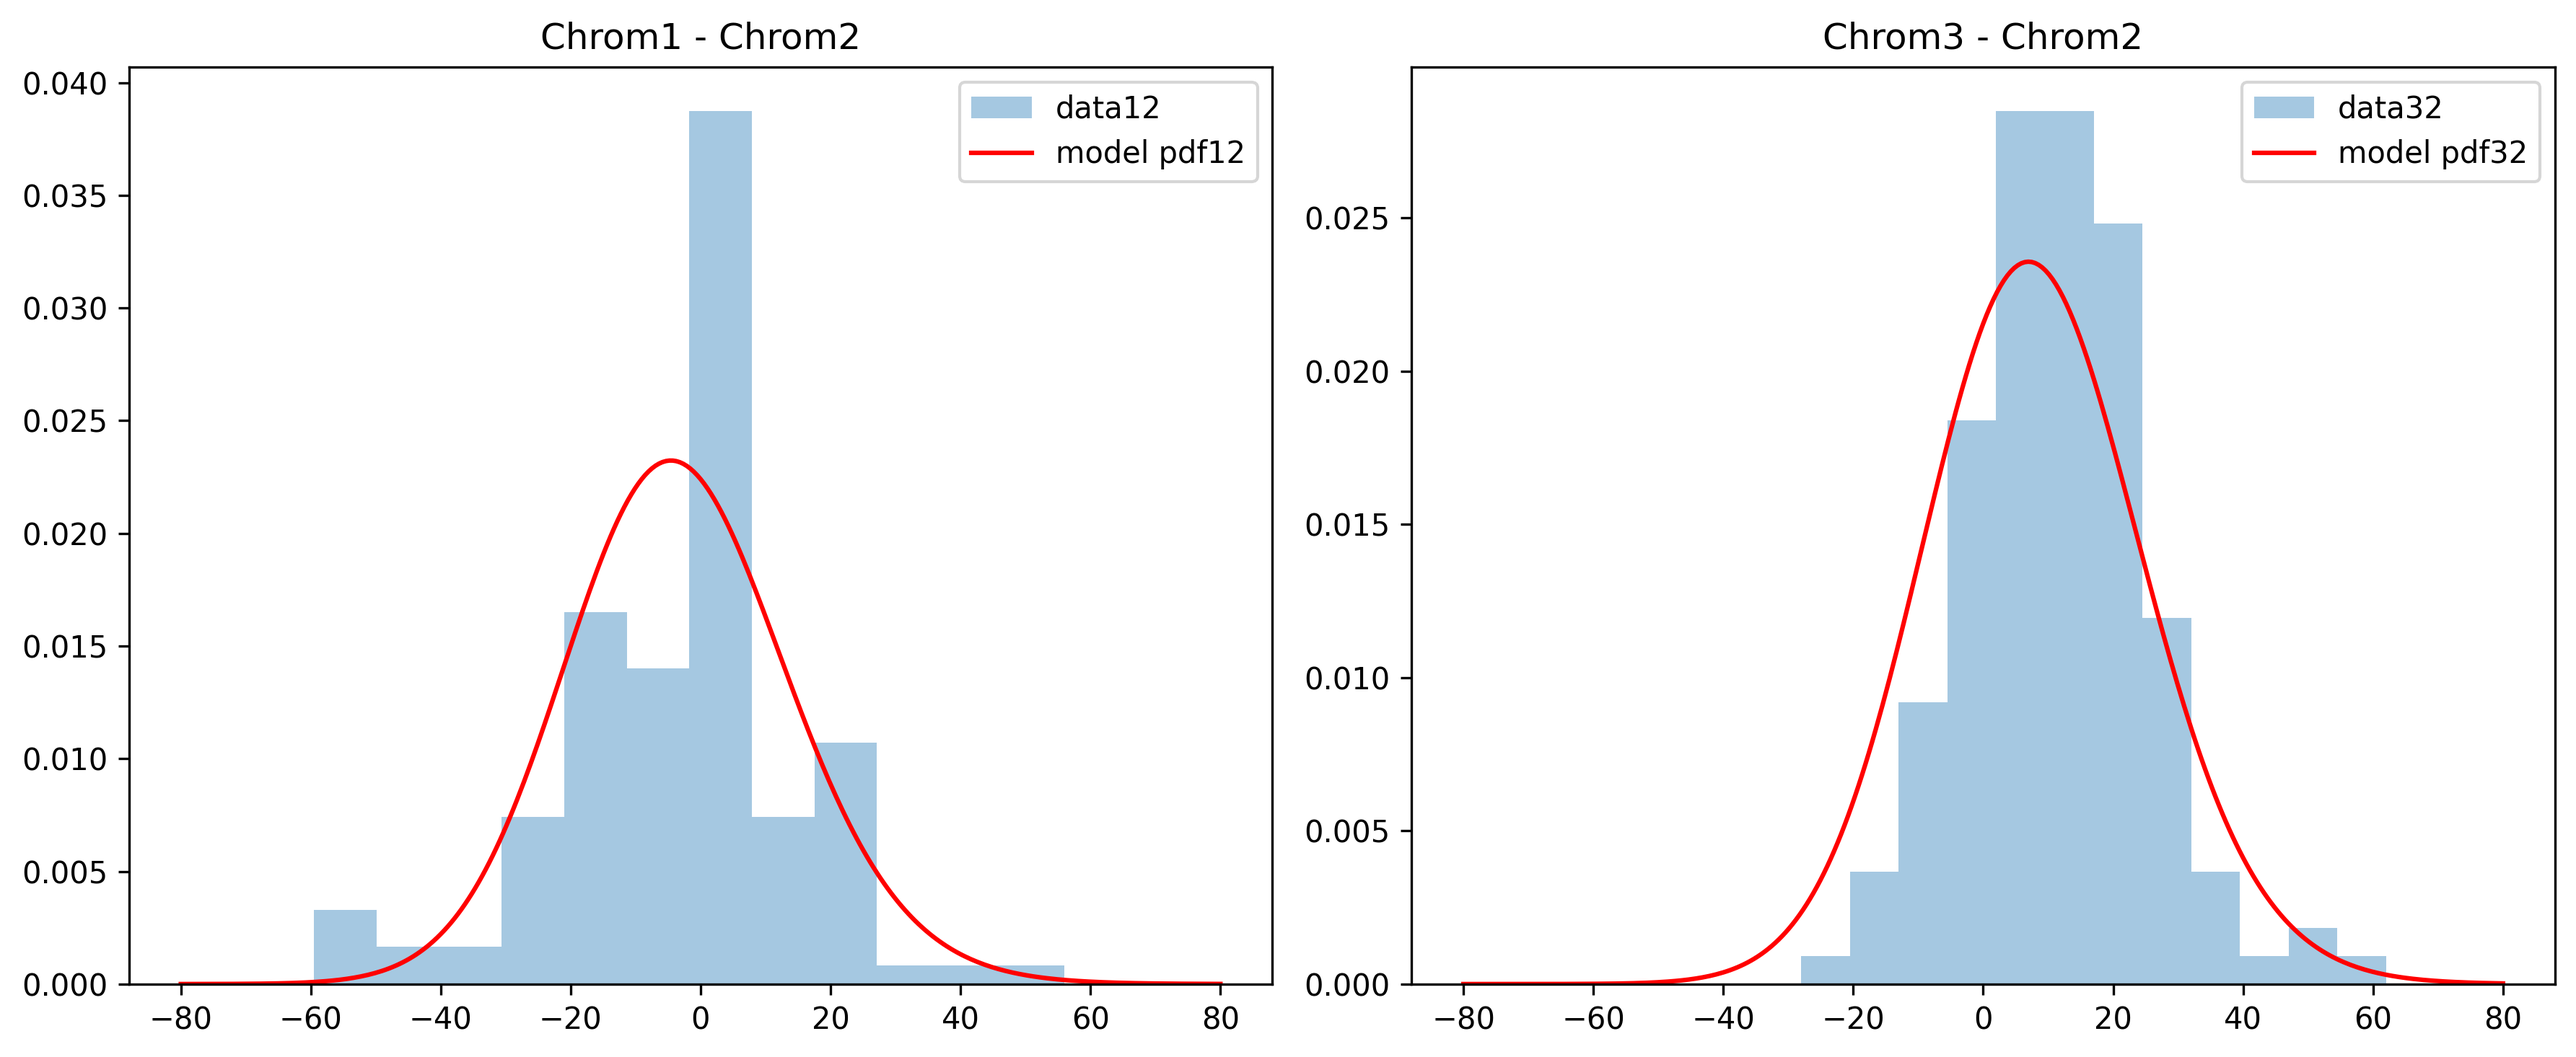
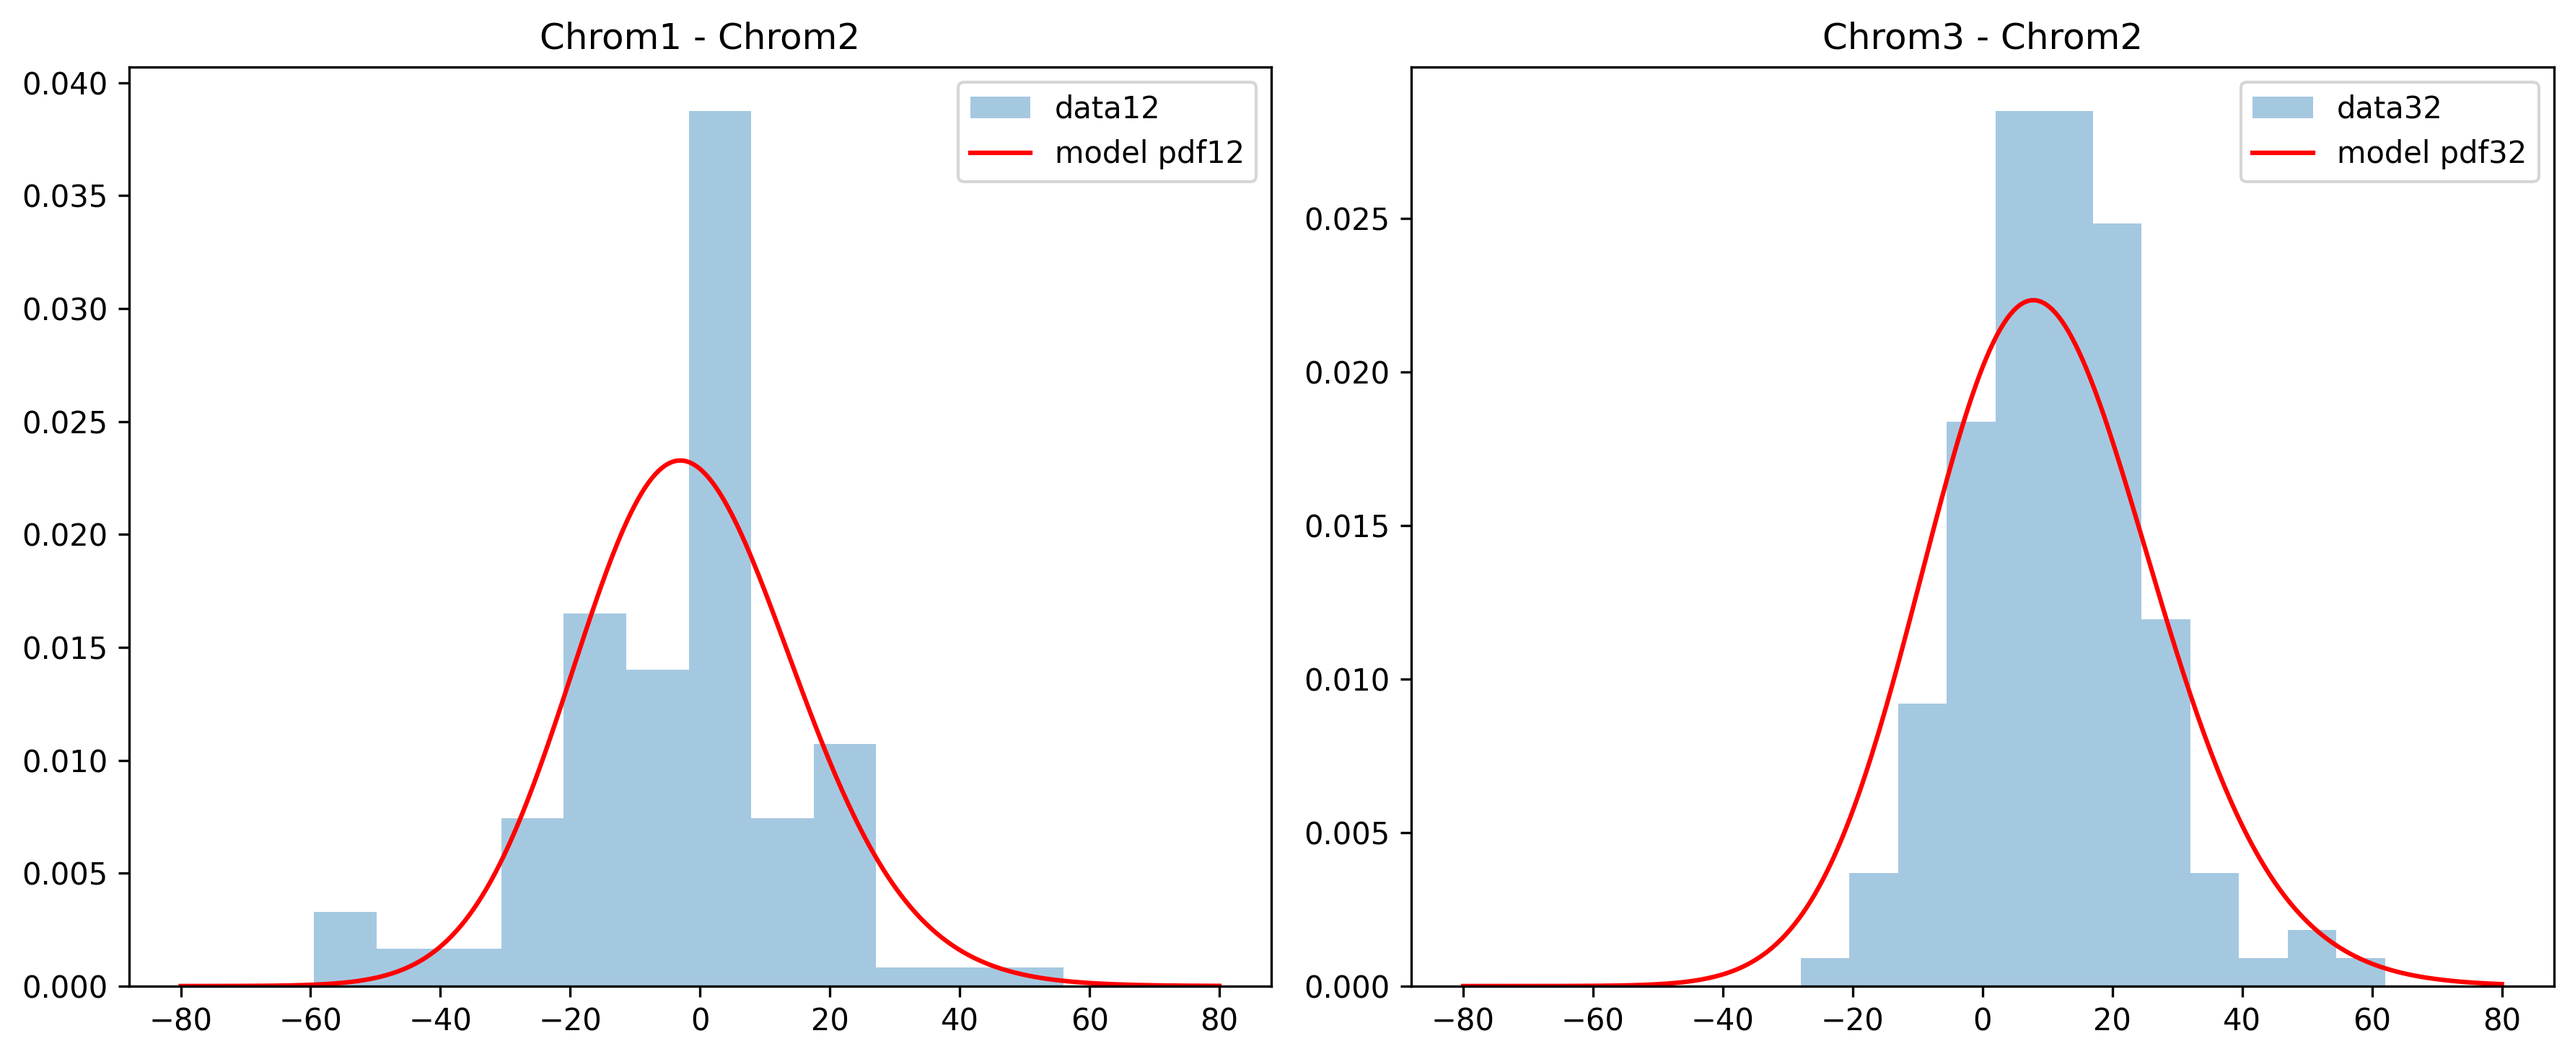
Continue optimize

diff --git a/NumericalOptimiration.py b/NumericalOptimiration.py
@@ -22,6 +22,7 @@ def combined_objective(vars_, R21_fixed, R23_fixed, data12, data32, x_grid):
 
     # Ensure n2 and N2 are integers
     if np.isnan(n2) or np.isnan(N2):
+        print(f"NaN detected in n2 or N2: n2={n2}, N2={N2}")
         return np.inf
     n2 = int(round(n2))
     N2 = int(round(N2))
@@ -38,10 +39,12 @@ def combined_objective(vars_, R21_fixed, R23_fixed, data12, data32, x_grid):
     ])
     area12 = np.trapz(pdf12, x_grid)
     if area12 < 1e-15 or np.any(np.isnan(pdf12)):
+        print(f"Invalid area12 or NaN in pdf12: area12={area12}, pdf12={pdf12}")
         return np.inf
     pdf12 /= area12
     vals12 = np.interp(data12, x_grid, pdf12, left=0, right=0)
     if np.any(vals12 <= 0) or np.any(np.isnan(vals12)):
+        print(f"Invalid vals12: vals12={vals12}")
         return np.inf
 
     # Chrom3–Chrom2
@@ -51,10 +54,12 @@ def combined_objective(vars_, R21_fixed, R23_fixed, data12, data32, x_grid):
     ])
     area32 = np.trapz(pdf32, x_grid)
     if area32 < 1e-15 or np.any(np.isnan(pdf32)):
+        print(f"Invalid area32 or NaN in pdf32: area32={area32}, pdf32={pdf32}")
         return np.inf
     pdf32 /= area32
     vals32 = np.interp(data32, x_grid, pdf32, left=0, right=0)
     if np.any(vals32 <= 0) or np.any(np.isnan(vals32)):
+        print(f"Invalid vals32: vals32={vals32}")
         return np.inf
 
     # Negative log-likelihood
@@ -80,15 +85,15 @@ def main():
 
     # d) We'll define small discrete sets for R1, R2
     # e.g. 0.50, 0.75, 1.00, ...
-    R21_candidates = np.round(np.arange(0.25, 2.51, 0.25), 2)
+    R21_candidates = np.round(np.arange(0.5, 2.51, 0.25), 2)
     # e.g. 0.50, 1.00, 1.50, ...
-    R23_candidates = np.round(np.arange(0.25, 2.51, 0.25), 2)
+    R23_candidates = np.round(np.arange(0.5, 2.51, 0.25), 2)
 
     # e) We'll do local optimization over [k, r1, r2] for each grid cell (R1,R2)
     param_bounds = [
         (5, 20),     # n2
-        (80, 200),   # N2
-        (0.01, 0.3),  # k
+        (80, 100),   # N2
+        (0.02, 0.3),  # k
         (0.5,  2.0),  # r1
         (0.5,  2.0),  # r2
     ]
@@ -114,7 +119,7 @@ def main():
                 x0,
                 method='L-BFGS-B',
                 bounds=param_bounds,
-                options={'maxiter': 300, 'disp': False}
+                options={'maxiter': 50, 'disp': False}
             )
 
             if res.success and res.fun < best_obj:

diff --git a/Chromosomes_Theory.py b/Chromosomes_Theory.py
@@ -1,8 +1,9 @@
 import numpy as np
 import matplotlib.pyplot as plt
 import math
-from scipy.integrate import quad
+from scipy.integrate import quad, IntegrationWarning
 from scipy.special import gamma
+import warnings
 
 N = 100
 
@@ -29,22 +30,33 @@ def f_tau(t, k, n, N):
 
 def f_diff(z, k, n1, N1, n2, N2):
     """
-    Difference PDF: X = tau1 - tau2
-    f_X(z) = ∫ f_tau1(t)*f_tau2(t-z) dt, from t=max(0,z) to ∞.
+    Compute the difference distribution f_X(z) for given parameters.
     """
-    lower_limit = max(0.0, z)
-
+    comb_factor = (N1**n1) * (N2**n2) / (gamma(n1+1) * gamma(n2+1))
+    
     def integrand(t):
-        return f_tau(t, k, n1, N1) * f_tau(t - z, k, n2, N2)
-
-    # Attempt integration; if it fails, we return a small number or 0
-    try:
-        val, _ = quad(integrand, lower_limit, np.inf, epsabs=1e-8, epsrel=1e-8)
-    except (ValueError, OverflowError):
+        try:
+            exp_term = np.exp(-t) * np.exp(-k*t*z)
+            if np.isinf(exp_term) or np.isnan(exp_term):
+                return 0.0
+            return t**(n1+n2-1) * exp_term
+        except OverflowError:
+            return 0.0
+    
+    lower_limit = 0
+    with warnings.catch_warnings():
+        warnings.filterwarnings('error', category=IntegrationWarning)
+        try:
+            val, _ = quad(integrand, lower_limit, np.inf, epsabs=1e-8, epsrel=1e-8)
+        except IntegrationWarning:
+            val = np.nan
+        except Exception as e:
+            val = np.nan
+    
+    if np.isnan(val):
         return 0.0
-    if not np.isfinite(val):
-        return 0.0
-    return val
+    
+    return k * comb_factor * val
 
 
 def plot_chromosomes():

diff --git a/TestDataPlot.py b/TestDataPlot.py
@@ -6,8 +6,8 @@ from NumericalOptimiration import run_stochastic_simulation_and_plot
 
 
 df = pd.read_excel("Data/Chromosome_diff.xlsx")
-data12 = df['SCSdiff_Wildtype12'].dropna().values
-data32 = df['SCSdiff_Wildtype23'].dropna().values
+data12 = df['Wildtype12'].dropna().values
+data32 = df['Wildtype32'].dropna().values
 
 x_grid = np.linspace(-80, 80, 301)
 
